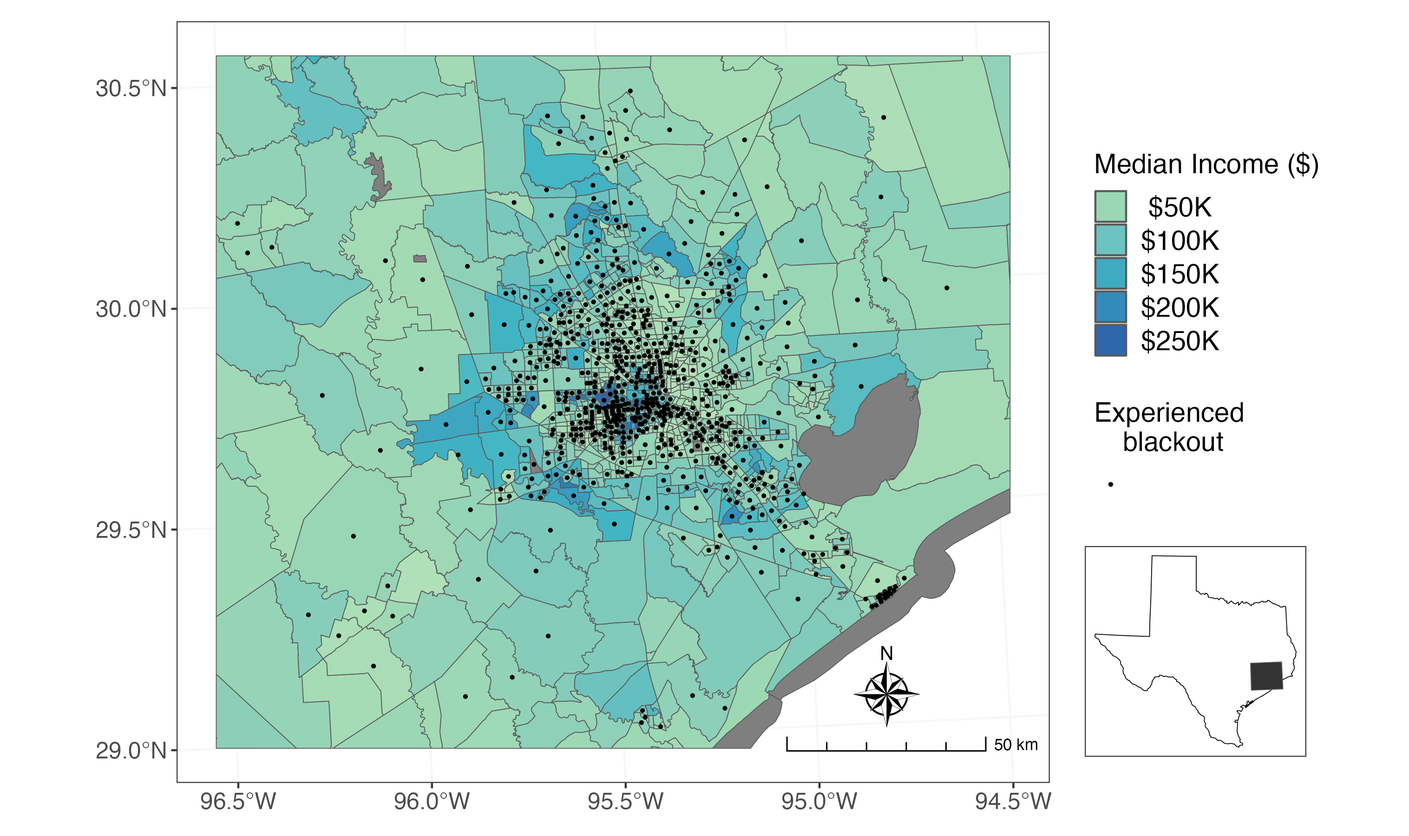
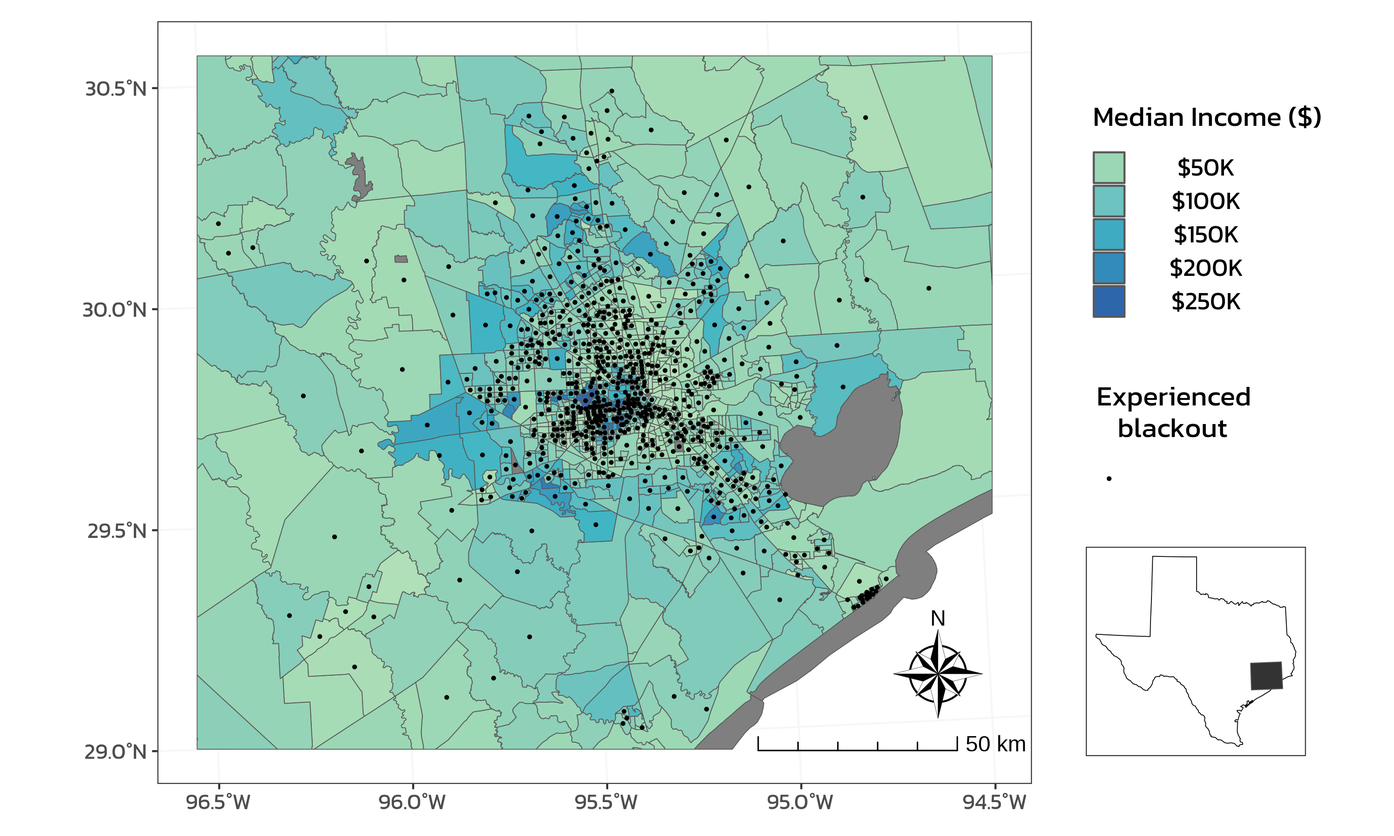
updated figures in blackouts blog post

diff --git a/docs/posts/2023-12-17-houston-blackouts-ej/index.html b/docs/posts/2023-12-17-houston-blackouts-ej/index.html
@@ -526,8 +526,8 @@ pre > code.sourceCode > span > a:first-child::before { text-decoration: underlin
 <span id="cb10-21"><a href="#cb10-21" aria-hidden="true" tabindex="-1"></a><span class="co"># create centroids for tracts with blackouts</span></span>
 <span id="cb10-22"><a href="#cb10-22" aria-hidden="true" tabindex="-1"></a>tracts_blackouts_centroids <span class="ot">&lt;-</span> sf<span class="sc">::</span><span class="fu">st_centroid</span>(tracts_blackouts)</span>
 <span id="cb10-23"><a href="#cb10-23" aria-hidden="true" tabindex="-1"></a></span>
-<span id="cb10-24"><a href="#cb10-24" aria-hidden="true" tabindex="-1"></a><span class="co">#palette from colorbrewer2.org - colorblind safe</span></span>
-<span id="cb10-25"><a href="#cb10-25" aria-hidden="true" tabindex="-1"></a>color_pal <span class="ot">&lt;-</span> <span class="fu">c</span>(<span class="st">'#ffffcc'</span>,<span class="st">'#a1dab4'</span>,<span class="st">'#41b6c4'</span>,<span class="st">'#2c7fb8'</span>,<span class="st">'#253494'</span>)</span>
+<span id="cb10-24"><a href="#cb10-24" aria-hidden="true" tabindex="-1"></a><span class="co"># palette from colorbrewer2.org - colorblind safe</span></span>
+<span id="cb10-25"><a href="#cb10-25" aria-hidden="true" tabindex="-1"></a>color_pal <span class="ot">&lt;-</span> <span class="fu">c</span>(<span class="st">"#ffffcc"</span>, <span class="st">"#a1dab4"</span>, <span class="st">"#41b6c4"</span>, <span class="st">"#2c7fb8"</span>, <span class="st">"#253494"</span>)</span>
 <span id="cb10-26"><a href="#cb10-26" aria-hidden="true" tabindex="-1"></a></span>
 <span id="cb10-27"><a href="#cb10-27" aria-hidden="true" tabindex="-1"></a><span class="co"># plot median income by census tracts</span></span>
 <span id="cb10-28"><a href="#cb10-28" aria-hidden="true" tabindex="-1"></a>plot_4 <span class="ot">&lt;-</span> <span class="fu">ggplot</span>() <span class="sc">+</span></span>
@@ -536,25 +536,39 @@ pre > code.sourceCode > span > a:first-child::before { text-decoration: underlin
 <span id="cb10-31"><a href="#cb10-31" aria-hidden="true" tabindex="-1"></a>  <span class="fu">labs</span>(<span class="at">fill =</span> <span class="st">"Median Income ($)"</span>) <span class="sc">+</span></span>
 <span id="cb10-32"><a href="#cb10-32" aria-hidden="true" tabindex="-1"></a>  <span class="fu">geom_sf</span>(<span class="at">data =</span> tracts_blackouts_centroids, <span class="at">size =</span> <span class="fl">0.5</span>, <span class="fu">aes</span>(<span class="at">color =</span> <span class="st">""</span>)) <span class="sc">+</span></span>
 <span id="cb10-33"><a href="#cb10-33" aria-hidden="true" tabindex="-1"></a>  <span class="fu">scale_colour_manual</span>(<span class="at">name =</span> <span class="st">"Experienced </span><span class="sc">\n</span><span class="st">blackout"</span>, <span class="at">values =</span> <span class="st">"black"</span>) <span class="sc">+</span></span>
-<span id="cb10-34"><a href="#cb10-34" aria-hidden="true" tabindex="-1"></a>  <span class="fu">annotation_scale</span>(<span class="at">location =</span> <span class="st">"bl"</span>, <span class="at">pad_x =</span> <span class="fu">unit</span>(<span class="fl">4.38</span>, <span class="st">"in"</span>), <span class="at">pad_y =</span> <span class="fu">unit</span>(<span class="fl">0.23</span>, <span class="st">"in"</span>), <span class="at">style =</span> <span class="st">"ticks"</span>) <span class="sc">+</span></span>
+<span id="cb10-34"><a href="#cb10-34" aria-hidden="true" tabindex="-1"></a>  <span class="fu">annotation_scale</span>(<span class="at">location =</span> <span class="st">"bl"</span>, <span class="at">pad_x =</span> <span class="fu">unit</span>(<span class="fl">4.31</span>, <span class="st">"in"</span>), <span class="at">pad_y =</span> <span class="fu">unit</span>(<span class="fl">0.24</span>, <span class="st">"in"</span>), <span class="at">style =</span> <span class="st">"ticks"</span>, <span class="at">text_cex =</span> <span class="dv">3</span>) <span class="sc">+</span></span>
 <span id="cb10-35"><a href="#cb10-35" aria-hidden="true" tabindex="-1"></a>  <span class="fu">annotation_north_arrow</span>(</span>
 <span id="cb10-36"><a href="#cb10-36" aria-hidden="true" tabindex="-1"></a>    <span class="at">location =</span> <span class="st">"bl"</span>,</span>
-<span id="cb10-37"><a href="#cb10-37" aria-hidden="true" tabindex="-1"></a>    <span class="at">pad_x =</span> <span class="fu">unit</span>(<span class="fl">4.9</span>, <span class="st">"in"</span>),</span>
-<span id="cb10-38"><a href="#cb10-38" aria-hidden="true" tabindex="-1"></a>    <span class="at">pad_y =</span> <span class="fu">unit</span>(<span class="fl">0.4</span>, <span class="st">"in"</span>),</span>
-<span id="cb10-39"><a href="#cb10-39" aria-hidden="true" tabindex="-1"></a>    <span class="at">style =</span> ggspatial<span class="sc">::</span><span class="fu">north_arrow_nautical</span>()</span>
-<span id="cb10-40"><a href="#cb10-40" aria-hidden="true" tabindex="-1"></a>  ) <span class="sc">+</span></span>
-<span id="cb10-41"><a href="#cb10-41" aria-hidden="true" tabindex="-1"></a>  <span class="fu">theme_bw</span>() <span class="sc">+</span> </span>
-<span id="cb10-42"><a href="#cb10-42" aria-hidden="true" tabindex="-1"></a>  <span class="fu">theme</span>(<span class="at">panel.grid =</span> <span class="fu">element_line</span>(<span class="at">color =</span> <span class="st">"grey95"</span>),</span>
-<span id="cb10-43"><a href="#cb10-43" aria-hidden="true" tabindex="-1"></a>        <span class="at">legend.position=</span> <span class="fu">c</span>(<span class="fl">1.18</span>, .<span class="dv">6</span>))<span class="sc">+</span></span>
-<span id="cb10-44"><a href="#cb10-44" aria-hidden="true" tabindex="-1"></a>  <span class="fu">guides</span>(<span class="at">color =</span> <span class="fu">guide_legend</span>(<span class="at">order =</span> <span class="dv">2</span>), <span class="at">fill=</span> <span class="fu">guide_legend</span>(<span class="at">order =</span> <span class="dv">1</span>))</span>
-<span id="cb10-45"><a href="#cb10-45" aria-hidden="true" tabindex="-1"></a></span>
-<span id="cb10-46"><a href="#cb10-46" aria-hidden="true" tabindex="-1"></a></span>
-<span id="cb10-47"><a href="#cb10-47" aria-hidden="true" tabindex="-1"></a>plot_4</span>
-<span id="cb10-48"><a href="#cb10-48" aria-hidden="true" tabindex="-1"></a></span>
-<span id="cb10-49"><a href="#cb10-49" aria-hidden="true" tabindex="-1"></a><span class="co"># combine plot and texas inset</span></span>
-<span id="cb10-50"><a href="#cb10-50" aria-hidden="true" tabindex="-1"></a>plot_5 <span class="ot">&lt;-</span> plot_4 <span class="sc">+</span> <span class="fu">inset_element</span>(plot_2, <span class="at">left =</span>  <span class="fl">1.02</span>, <span class="at">bottom =</span> <span class="fl">0.005</span>, <span class="at">right =</span> <span class="fl">1.28</span>, <span class="at">top =</span> <span class="fl">0.4</span>, <span class="at">align_to =</span> <span class="st">"plot"</span>) </span>
-<span id="cb10-51"><a href="#cb10-51" aria-hidden="true" tabindex="-1"></a></span>
-<span id="cb10-52"><a href="#cb10-52" aria-hidden="true" tabindex="-1"></a>plot_5</span></code><button title="Copy to Clipboard" class="code-copy-button"><i class="bi"></i></button></pre></div>
+<span id="cb10-37"><a href="#cb10-37" aria-hidden="true" tabindex="-1"></a>    <span class="at">pad_x =</span> <span class="fu">unit</span>(<span class="fl">5.2</span>, <span class="st">"in"</span>),</span>
+<span id="cb10-38"><a href="#cb10-38" aria-hidden="true" tabindex="-1"></a>    <span class="at">pad_y =</span> <span class="fu">unit</span>(<span class="fl">0.47</span>, <span class="st">"in"</span>),</span>
+<span id="cb10-39"><a href="#cb10-39" aria-hidden="true" tabindex="-1"></a>    <span class="at">height =</span> <span class="fu">unit</span>(<span class="fl">0.8</span>, <span class="st">"in"</span>),</span>
+<span id="cb10-40"><a href="#cb10-40" aria-hidden="true" tabindex="-1"></a>    <span class="at">width =</span> <span class="fu">unit</span>(<span class="fl">0.8</span>, <span class="st">"in"</span>),</span>
+<span id="cb10-41"><a href="#cb10-41" aria-hidden="true" tabindex="-1"></a>    <span class="co"># pad_x = unit(4.74, "in"),</span></span>
+<span id="cb10-42"><a href="#cb10-42" aria-hidden="true" tabindex="-1"></a>    <span class="co"># pad_y = unit(0.4, "in"),</span></span>
+<span id="cb10-43"><a href="#cb10-43" aria-hidden="true" tabindex="-1"></a>    <span class="at">style =</span> ggspatial<span class="sc">::</span><span class="fu">north_arrow_nautical</span>(<span class="at">text_size =</span> <span class="dv">35</span>)</span>
+<span id="cb10-44"><a href="#cb10-44" aria-hidden="true" tabindex="-1"></a>  ) <span class="sc">+</span></span>
+<span id="cb10-45"><a href="#cb10-45" aria-hidden="true" tabindex="-1"></a>  <span class="fu">theme_bw</span>() <span class="sc">+</span></span>
+<span id="cb10-46"><a href="#cb10-46" aria-hidden="true" tabindex="-1"></a>  <span class="fu">theme</span>(</span>
+<span id="cb10-47"><a href="#cb10-47" aria-hidden="true" tabindex="-1"></a>    <span class="at">text =</span> <span class="fu">element_text</span>(<span class="at">family =</span> <span class="st">"kanit"</span>),</span>
+<span id="cb10-48"><a href="#cb10-48" aria-hidden="true" tabindex="-1"></a>    <span class="at">panel.grid =</span> <span class="fu">element_line</span>(<span class="at">color =</span> <span class="st">"grey97"</span>),</span>
+<span id="cb10-49"><a href="#cb10-49" aria-hidden="true" tabindex="-1"></a>    <span class="co"># legend.margin = margin(c(b = 10)),</span></span>
+<span id="cb10-50"><a href="#cb10-50" aria-hidden="true" tabindex="-1"></a>    <span class="at">axis.text.x =</span> <span class="fu">element_text</span>(<span class="at">size =</span> <span class="dv">35</span>),</span>
+<span id="cb10-51"><a href="#cb10-51" aria-hidden="true" tabindex="-1"></a>    <span class="at">axis.text.y =</span> <span class="fu">element_text</span>(<span class="at">size =</span> <span class="dv">35</span>),</span>
+<span id="cb10-52"><a href="#cb10-52" aria-hidden="true" tabindex="-1"></a>    <span class="at">axis.title.x =</span> <span class="fu">element_text</span>(<span class="at">size =</span> <span class="dv">40</span>),</span>
+<span id="cb10-53"><a href="#cb10-53" aria-hidden="true" tabindex="-1"></a>    <span class="at">axis.title.y =</span> <span class="fu">element_text</span>(<span class="at">size =</span> <span class="dv">40</span>),</span>
+<span id="cb10-54"><a href="#cb10-54" aria-hidden="true" tabindex="-1"></a>    <span class="at">legend.text =</span> <span class="fu">element_text</span>(<span class="at">size =</span> <span class="dv">40</span>, <span class="at">hjust =</span> <span class="fl">0.5</span>),</span>
+<span id="cb10-55"><a href="#cb10-55" aria-hidden="true" tabindex="-1"></a>    <span class="at">legend.title =</span> <span class="fu">element_text</span>(<span class="at">lineheight =</span> <span class="fl">0.3</span>, <span class="at">size =</span> <span class="dv">45</span>, <span class="at">hjust =</span> <span class="fl">0.5</span>, <span class="at">vjust =</span> <span class="dv">2</span>, <span class="at">margin =</span> <span class="fu">margin</span>(<span class="at">b =</span> <span class="dv">1</span>)),</span>
+<span id="cb10-56"><a href="#cb10-56" aria-hidden="true" tabindex="-1"></a>    <span class="at">legend.position =</span> <span class="fu">c</span>(<span class="fl">1.2</span>, <span class="fl">0.65</span>)</span>
+<span id="cb10-57"><a href="#cb10-57" aria-hidden="true" tabindex="-1"></a>  ) <span class="sc">+</span></span>
+<span id="cb10-58"><a href="#cb10-58" aria-hidden="true" tabindex="-1"></a>  <span class="fu">guides</span>(<span class="at">color =</span> <span class="fu">guide_legend</span>(<span class="at">order =</span> <span class="dv">2</span>, <span class="at">title.vjust =</span> <span class="sc">-</span><span class="dv">3</span>), <span class="at">fill =</span> <span class="fu">guide_legend</span>(<span class="at">order =</span> <span class="dv">1</span>, <span class="at">title.vjust =</span> <span class="sc">-</span><span class="dv">3</span>))</span>
+<span id="cb10-59"><a href="#cb10-59" aria-hidden="true" tabindex="-1"></a><span class="co"># guides(color = guide_colorbar(order = 2), fill = guide_legend(order = 1))</span></span>
+<span id="cb10-60"><a href="#cb10-60" aria-hidden="true" tabindex="-1"></a></span>
+<span id="cb10-61"><a href="#cb10-61" aria-hidden="true" tabindex="-1"></a>plot_4</span>
+<span id="cb10-62"><a href="#cb10-62" aria-hidden="true" tabindex="-1"></a></span>
+<span id="cb10-63"><a href="#cb10-63" aria-hidden="true" tabindex="-1"></a><span class="co"># combine plot and texas inset</span></span>
+<span id="cb10-64"><a href="#cb10-64" aria-hidden="true" tabindex="-1"></a>plot_5 <span class="ot">&lt;-</span> plot_4 <span class="sc">+</span> <span class="fu">inset_element</span>(plot_2, <span class="at">left =</span> <span class="fl">1.04</span>, <span class="at">bottom =</span> <span class="fl">0.005</span>, <span class="at">right =</span> <span class="fl">1.3</span>, <span class="at">top =</span> <span class="fl">0.4</span>, <span class="at">align_to =</span> <span class="st">"plot"</span>)</span>
+<span id="cb10-65"><a href="#cb10-65" aria-hidden="true" tabindex="-1"></a></span>
+<span id="cb10-66"><a href="#cb10-66" aria-hidden="true" tabindex="-1"></a>plot_5</span></code><button title="Copy to Clipboard" class="code-copy-button"><i class="bi"></i></button></pre></div>
 </details>
 </div>
 <div class="quarto-figure quarto-figure-center">
@@ -587,33 +601,60 @@ pre > code.sourceCode > span > a:first-child::before { text-decoration: underlin
 <span id="cb11-18"><a href="#cb11-18" aria-hidden="true" tabindex="-1"></a><span class="co"># plot income distribution</span></span>
 <span id="cb11-19"><a href="#cb11-19" aria-hidden="true" tabindex="-1"></a>plot_6 <span class="ot">&lt;-</span> <span class="fu">ggplot</span>(income_distr) <span class="sc">+</span></span>
 <span id="cb11-20"><a href="#cb11-20" aria-hidden="true" tabindex="-1"></a>  <span class="fu">geom_boxplot</span>(<span class="fu">aes</span>(<span class="at">x =</span> group, <span class="at">y =</span> income, <span class="at">fill =</span> group), <span class="at">notch =</span> <span class="cn">TRUE</span>) <span class="sc">+</span></span>
-<span id="cb11-21"><a href="#cb11-21" aria-hidden="true" tabindex="-1"></a>  <span class="fu">scale_y_continuous</span>(<span class="at">labels =</span> scales<span class="sc">::</span><span class="fu">label_currency</span>(), <span class="at">expand =</span> <span class="fu">c</span>(<span class="dv">0</span>, <span class="dv">0</span>)) <span class="sc">+</span></span>
+<span id="cb11-21"><a href="#cb11-21" aria-hidden="true" tabindex="-1"></a>  <span class="fu">scale_y_continuous</span>(<span class="at">labels =</span> scales<span class="sc">::</span><span class="fu">label_currency</span>(), <span class="at">expand =</span> <span class="fu">c</span>(<span class="dv">0</span>, <span class="dv">0</span>), <span class="at">limits =</span> <span class="fu">c</span>(<span class="dv">0</span>, <span class="dv">260000</span>)) <span class="sc">+</span></span>
 <span id="cb11-22"><a href="#cb11-22" aria-hidden="true" tabindex="-1"></a>  <span class="fu">scale_fill_manual</span>(<span class="at">values =</span> <span class="fu">c</span>(<span class="st">"#6BB9C7"</span>, <span class="st">"#EDB458"</span>)) <span class="sc">+</span></span>
-<span id="cb11-23"><a href="#cb11-23" aria-hidden="true" tabindex="-1"></a>  <span class="fu">labs</span>(<span class="at">x =</span> <span class="st">"Tract type"</span>, <span class="at">y =</span> <span class="st">"Income ($)"</span>, <span class="at">fill =</span> <span class="st">"Tract type"</span>) <span class="sc">+</span></span>
+<span id="cb11-23"><a href="#cb11-23" aria-hidden="true" tabindex="-1"></a>  <span class="fu">labs</span>(<span class="at">x =</span> <span class="st">"Tract type"</span>, <span class="at">y =</span> <span class="st">"Median Income ($)"</span>, <span class="at">fill =</span> <span class="st">"Tract type"</span>) <span class="sc">+</span></span>
 <span id="cb11-24"><a href="#cb11-24" aria-hidden="true" tabindex="-1"></a>  <span class="fu">theme_bw</span>() <span class="sc">+</span></span>
-<span id="cb11-25"><a href="#cb11-25" aria-hidden="true" tabindex="-1"></a>  <span class="fu">theme</span>(<span class="at">legend.position =</span> <span class="st">"none"</span>,</span>
-<span id="cb11-26"><a href="#cb11-26" aria-hidden="true" tabindex="-1"></a>        <span class="at">panel.grid =</span> <span class="fu">element_line</span>(<span class="at">color =</span> <span class="st">"grey95"</span>))</span>
-<span id="cb11-27"><a href="#cb11-27" aria-hidden="true" tabindex="-1"></a></span>
-<span id="cb11-28"><a href="#cb11-28" aria-hidden="true" tabindex="-1"></a>plot_6 </span>
-<span id="cb11-29"><a href="#cb11-29" aria-hidden="true" tabindex="-1"></a></span>
-<span id="cb11-30"><a href="#cb11-30" aria-hidden="true" tabindex="-1"></a>plot_7 <span class="ot">&lt;-</span> <span class="fu">ggplot</span>(income_distr) <span class="sc">+</span></span>
-<span id="cb11-31"><a href="#cb11-31" aria-hidden="true" tabindex="-1"></a>  <span class="fu">geom_density</span>(<span class="fu">aes</span>(<span class="at">x =</span> income,  ..scaled.., <span class="at">col =</span> group, <span class="at">fill =</span> group), <span class="at">size =</span> <span class="fl">1.5</span>, <span class="at">alpha =</span> <span class="fl">0.5</span>) <span class="sc">+</span></span>
-<span id="cb11-32"><a href="#cb11-32" aria-hidden="true" tabindex="-1"></a>  <span class="fu">scale_x_continuous</span>(<span class="at">labels =</span> scales<span class="sc">::</span><span class="fu">label_currency</span>(),<span class="at">expand =</span> <span class="fu">c</span>(<span class="dv">0</span>, <span class="dv">0</span>)) <span class="sc">+</span></span>
-<span id="cb11-33"><a href="#cb11-33" aria-hidden="true" tabindex="-1"></a>  <span class="fu">scale_y_continuous</span>(<span class="at">expand =</span> <span class="fu">c</span>(<span class="dv">0</span>, <span class="dv">0</span>), <span class="at">limits =</span> <span class="fu">c</span>(<span class="dv">0</span>, <span class="fl">1.02</span>)) <span class="sc">+</span></span>
-<span id="cb11-34"><a href="#cb11-34" aria-hidden="true" tabindex="-1"></a>  <span class="fu">labs</span>(<span class="at">col =</span> <span class="st">"Tract type"</span>, <span class="at">x =</span> <span class="st">"Income ($)"</span>, <span class="at">y =</span> <span class="st">"Density"</span>) <span class="sc">+</span></span>
-<span id="cb11-35"><a href="#cb11-35" aria-hidden="true" tabindex="-1"></a>  <span class="fu">scale_color_manual</span>(<span class="at">values =</span> <span class="fu">c</span>(<span class="st">"#6BB9C7"</span>, <span class="st">"#EDB458"</span>)) <span class="sc">+</span></span>
-<span id="cb11-36"><a href="#cb11-36" aria-hidden="true" tabindex="-1"></a>  <span class="fu">scale_fill_manual</span>(<span class="at">values =</span> <span class="fu">c</span>(<span class="st">"#6BB9C7"</span>, <span class="st">"#EDB458"</span>)) <span class="sc">+</span></span>
-<span id="cb11-37"><a href="#cb11-37" aria-hidden="true" tabindex="-1"></a>  <span class="fu">geom_vline</span>(<span class="at">xintercept =</span> <span class="dv">60414</span>, <span class="at">linetype =</span> <span class="st">"dashed"</span>, <span class="at">color =</span> <span class="st">"#4F9BB2"</span>)<span class="sc">+</span></span>
-<span id="cb11-38"><a href="#cb11-38" aria-hidden="true" tabindex="-1"></a>  <span class="fu">geom_vline</span>(<span class="at">xintercept =</span> <span class="dv">55128</span>, <span class="at">linetype =</span> <span class="st">"dashed"</span>, <span class="at">color =</span> <span class="st">"#EC8848"</span>)<span class="sc">+</span></span>
-<span id="cb11-39"><a href="#cb11-39" aria-hidden="true" tabindex="-1"></a>  <span class="fu">theme_bw</span>() <span class="sc">+</span></span>
-<span id="cb11-40"><a href="#cb11-40" aria-hidden="true" tabindex="-1"></a>  <span class="fu">theme</span>(<span class="at">legend.position =</span> <span class="st">"bottom"</span>,</span>
-<span id="cb11-41"><a href="#cb11-41" aria-hidden="true" tabindex="-1"></a>        <span class="at">panel.grid =</span> <span class="fu">element_line</span>(<span class="at">color =</span> <span class="st">"grey95"</span>))</span>
-<span id="cb11-42"><a href="#cb11-42" aria-hidden="true" tabindex="-1"></a></span>
-<span id="cb11-43"><a href="#cb11-43" aria-hidden="true" tabindex="-1"></a>plot_7</span>
-<span id="cb11-44"><a href="#cb11-44" aria-hidden="true" tabindex="-1"></a></span>
-<span id="cb11-45"><a href="#cb11-45" aria-hidden="true" tabindex="-1"></a>plot_8 <span class="ot">&lt;-</span> (plot_6 <span class="sc">+</span> <span class="fu">plot_layout</span>(<span class="at">guides =</span> <span class="st">"collect"</span>) <span class="sc">&amp;</span> <span class="fu">theme</span>(<span class="at">legend.position =</span> <span class="st">"bottom"</span>)) <span class="sc">+</span> (plot_7 <span class="sc">+</span> <span class="fu">theme</span>(<span class="at">legend.position =</span> <span class="st">"none"</span>)) <span class="sc">+</span> <span class="fu">plot_annotation</span>(<span class="at">tag_levels =</span> <span class="st">"A"</span>) </span>
-<span id="cb11-46"><a href="#cb11-46" aria-hidden="true" tabindex="-1"></a></span>
-<span id="cb11-47"><a href="#cb11-47" aria-hidden="true" tabindex="-1"></a>plot_8</span></code><button title="Copy to Clipboard" class="code-copy-button"><i class="bi"></i></button></pre></div>
+<span id="cb11-25"><a href="#cb11-25" aria-hidden="true" tabindex="-1"></a>  <span class="fu">theme</span>(</span>
+<span id="cb11-26"><a href="#cb11-26" aria-hidden="true" tabindex="-1"></a>    <span class="at">text =</span> <span class="fu">element_text</span>(<span class="at">family =</span> <span class="st">"kanit"</span>),</span>
+<span id="cb11-27"><a href="#cb11-27" aria-hidden="true" tabindex="-1"></a>    <span class="at">legend.position =</span> <span class="st">"none"</span>,</span>
+<span id="cb11-28"><a href="#cb11-28" aria-hidden="true" tabindex="-1"></a>    <span class="at">panel.grid =</span> <span class="fu">element_line</span>(<span class="at">color =</span> <span class="st">"grey97"</span>),</span>
+<span id="cb11-29"><a href="#cb11-29" aria-hidden="true" tabindex="-1"></a>    <span class="at">axis.text.x =</span> <span class="fu">element_text</span>(<span class="at">size =</span> <span class="dv">35</span>),</span>
+<span id="cb11-30"><a href="#cb11-30" aria-hidden="true" tabindex="-1"></a>    <span class="at">axis.text.y =</span> <span class="fu">element_text</span>(<span class="at">size =</span> <span class="dv">35</span>),</span>
+<span id="cb11-31"><a href="#cb11-31" aria-hidden="true" tabindex="-1"></a>    <span class="at">axis.title.x =</span> <span class="fu">element_text</span>(<span class="at">size =</span> <span class="dv">40</span>, <span class="at">margin =</span> <span class="fu">margin</span>(<span class="at">t =</span> <span class="dv">10</span>)),</span>
+<span id="cb11-32"><a href="#cb11-32" aria-hidden="true" tabindex="-1"></a>    <span class="at">axis.title.y =</span> <span class="fu">element_text</span>(<span class="at">size =</span> <span class="dv">40</span>, <span class="at">margin =</span> <span class="fu">margin</span>(<span class="at">r =</span> <span class="dv">10</span>)),</span>
+<span id="cb11-33"><a href="#cb11-33" aria-hidden="true" tabindex="-1"></a>    <span class="at">legend.text =</span> <span class="fu">element_text</span>(<span class="at">size =</span> <span class="dv">40</span>, <span class="at">hjust =</span> <span class="fl">0.5</span>),</span>
+<span id="cb11-34"><a href="#cb11-34" aria-hidden="true" tabindex="-1"></a>    <span class="at">legend.title =</span> <span class="fu">element_text</span>(<span class="at">size =</span> <span class="dv">45</span>, <span class="at">hjust =</span> <span class="fl">0.5</span>, <span class="at">margin =</span> <span class="fu">margin</span>(<span class="at">b =</span> <span class="dv">8</span>))</span>
+<span id="cb11-35"><a href="#cb11-35" aria-hidden="true" tabindex="-1"></a>  )</span>
+<span id="cb11-36"><a href="#cb11-36" aria-hidden="true" tabindex="-1"></a></span>
+<span id="cb11-37"><a href="#cb11-37" aria-hidden="true" tabindex="-1"></a>plot_6</span>
+<span id="cb11-38"><a href="#cb11-38" aria-hidden="true" tabindex="-1"></a></span>
+<span id="cb11-39"><a href="#cb11-39" aria-hidden="true" tabindex="-1"></a>plot_7 <span class="ot">&lt;-</span> <span class="fu">ggplot</span>(income_distr) <span class="sc">+</span></span>
+<span id="cb11-40"><a href="#cb11-40" aria-hidden="true" tabindex="-1"></a>  <span class="fu">geom_density</span>(<span class="fu">aes</span>(<span class="at">x =</span> income, ..scaled.., <span class="at">col =</span> group, <span class="at">fill =</span> group), <span class="at">size =</span> <span class="fl">1.5</span>, <span class="at">alpha =</span> <span class="fl">0.5</span>) <span class="sc">+</span></span>
+<span id="cb11-41"><a href="#cb11-41" aria-hidden="true" tabindex="-1"></a>  <span class="fu">scale_x_continuous</span>(<span class="at">labels =</span> scales<span class="sc">::</span><span class="fu">label_currency</span>(<span class="at">scale =</span> <span class="fl">0.001</span>, <span class="at">suffix =</span> <span class="st">"k"</span>, ), <span class="at">expand =</span> <span class="fu">c</span>(<span class="dv">0</span>, <span class="dv">0</span>), <span class="at">limits =</span> <span class="fu">c</span>(<span class="dv">0</span>, <span class="dv">270000</span>)) <span class="sc">+</span></span>
+<span id="cb11-42"><a href="#cb11-42" aria-hidden="true" tabindex="-1"></a>  <span class="fu">scale_y_continuous</span>(<span class="at">expand =</span> <span class="fu">c</span>(<span class="dv">0</span>, <span class="dv">0</span>), <span class="at">limits =</span> <span class="fu">c</span>(<span class="dv">0</span>, <span class="fl">1.02</span>)) <span class="sc">+</span></span>
+<span id="cb11-43"><a href="#cb11-43" aria-hidden="true" tabindex="-1"></a>  <span class="fu">labs</span>(<span class="at">fill =</span> <span class="st">"Tract type"</span>, <span class="at">x =</span> <span class="st">"Median Income ($)"</span>, <span class="at">y =</span> <span class="st">"Density"</span>) <span class="sc">+</span></span>
+<span id="cb11-44"><a href="#cb11-44" aria-hidden="true" tabindex="-1"></a>  <span class="fu">scale_color_manual</span>(<span class="at">values =</span> <span class="fu">c</span>(<span class="st">"#6BB9C7"</span>, <span class="st">"#EDB458"</span>), <span class="at">guide =</span> <span class="cn">NULL</span>) <span class="sc">+</span></span>
+<span id="cb11-45"><a href="#cb11-45" aria-hidden="true" tabindex="-1"></a>  <span class="fu">scale_fill_manual</span>(<span class="at">values =</span> <span class="fu">c</span>(<span class="st">"#6BB9C7"</span>, <span class="st">"#EDB458"</span>), <span class="at">guide =</span> <span class="fu">guide_legend</span>(<span class="at">title =</span> <span class="st">"Tract Type"</span>, <span class="at">keywidth =</span> <span class="fl">1.25</span>, <span class="at">keyheight =</span> <span class="dv">1</span>, <span class="at">vjust =</span> <span class="sc">-</span><span class="dv">3</span>)) <span class="sc">+</span></span>
+<span id="cb11-46"><a href="#cb11-46" aria-hidden="true" tabindex="-1"></a>  <span class="fu">guides</span>(<span class="at">fill =</span> <span class="fu">guide_legend</span>(<span class="at">override.aes =</span> <span class="fu">list</span>(<span class="at">color =</span> <span class="fu">c</span>(<span class="st">"#6BB9C7"</span>,<span class="st">"#EDB458"</span>))))<span class="sc">+</span></span>
+<span id="cb11-47"><a href="#cb11-47" aria-hidden="true" tabindex="-1"></a>  <span class="fu">geom_vline</span>(<span class="at">xintercept =</span> <span class="dv">60414</span>, <span class="at">linetype =</span> <span class="st">"dashed"</span>, <span class="at">color =</span> <span class="st">"#4F9BB2"</span>) <span class="sc">+</span></span>
+<span id="cb11-48"><a href="#cb11-48" aria-hidden="true" tabindex="-1"></a>  <span class="fu">geom_vline</span>(<span class="at">xintercept =</span> <span class="dv">55128</span>, <span class="at">linetype =</span> <span class="st">"dashed"</span>, <span class="at">color =</span> <span class="st">"#EC8848"</span>) <span class="sc">+</span></span>
+<span id="cb11-49"><a href="#cb11-49" aria-hidden="true" tabindex="-1"></a>  <span class="fu">theme_bw</span>() <span class="sc">+</span></span>
+<span id="cb11-50"><a href="#cb11-50" aria-hidden="true" tabindex="-1"></a>  <span class="fu">theme</span>(</span>
+<span id="cb11-51"><a href="#cb11-51" aria-hidden="true" tabindex="-1"></a>    <span class="at">text =</span> <span class="fu">element_text</span>(<span class="at">family =</span> <span class="st">"kanit"</span>),</span>
+<span id="cb11-52"><a href="#cb11-52" aria-hidden="true" tabindex="-1"></a>    <span class="at">legend.position =</span> <span class="fu">c</span>(<span class="fl">0.73</span>, <span class="fl">0.86</span>),</span>
+<span id="cb11-53"><a href="#cb11-53" aria-hidden="true" tabindex="-1"></a>    <span class="at">legend.background =</span> <span class="fu">element_rect</span>(<span class="at">color =</span> <span class="cn">NA</span>, <span class="at">fill =</span> <span class="cn">NA</span>),</span>
+<span id="cb11-54"><a href="#cb11-54" aria-hidden="true" tabindex="-1"></a>    <span class="at">legend.box.background =</span> <span class="fu">element_rect</span>(</span>
+<span id="cb11-55"><a href="#cb11-55" aria-hidden="true" tabindex="-1"></a>      <span class="at">fill =</span> <span class="fu">alpha</span>(<span class="st">'white'</span>, .<span class="dv">5</span>), <span class="at">linetype =</span> <span class="st">"solid"</span>, <span class="at">color =</span> <span class="st">"grey80"</span>),</span>
+<span id="cb11-56"><a href="#cb11-56" aria-hidden="true" tabindex="-1"></a>    <span class="at">panel.grid =</span> <span class="fu">element_line</span>(<span class="at">color =</span> <span class="st">"grey97"</span>),</span>
+<span id="cb11-57"><a href="#cb11-57" aria-hidden="true" tabindex="-1"></a>    <span class="at">axis.text.x =</span> <span class="fu">element_text</span>(<span class="at">size =</span> <span class="dv">35</span>),</span>
+<span id="cb11-58"><a href="#cb11-58" aria-hidden="true" tabindex="-1"></a>    <span class="at">axis.text.y =</span> <span class="fu">element_text</span>(<span class="at">size =</span> <span class="dv">35</span>),</span>
+<span id="cb11-59"><a href="#cb11-59" aria-hidden="true" tabindex="-1"></a>    <span class="at">axis.title.x =</span> <span class="fu">element_text</span>(<span class="at">size =</span> <span class="dv">40</span>, <span class="at">margin =</span> <span class="fu">margin</span>(<span class="at">t =</span> <span class="dv">10</span>)),</span>
+<span id="cb11-60"><a href="#cb11-60" aria-hidden="true" tabindex="-1"></a>    <span class="at">axis.title.y =</span> <span class="fu">element_text</span>(<span class="at">size =</span> <span class="dv">40</span>, <span class="at">margin =</span> <span class="fu">margin</span>(<span class="at">r =</span> <span class="dv">10</span>)),</span>
+<span id="cb11-61"><a href="#cb11-61" aria-hidden="true" tabindex="-1"></a>    <span class="at">legend.text =</span> <span class="fu">element_text</span>(<span class="at">size =</span> <span class="dv">40</span>, <span class="at">hjust =</span> <span class="dv">0</span>),</span>
+<span id="cb11-62"><a href="#cb11-62" aria-hidden="true" tabindex="-1"></a>    <span class="at">legend.title =</span> <span class="fu">element_text</span>(<span class="at">size =</span> <span class="dv">45</span>, <span class="at">hjust =</span> <span class="fl">0.5</span>, <span class="at">lineheight =</span> <span class="fl">0.3</span>)</span>
+<span id="cb11-63"><a href="#cb11-63" aria-hidden="true" tabindex="-1"></a>  )</span>
+<span id="cb11-64"><a href="#cb11-64" aria-hidden="true" tabindex="-1"></a></span>
+<span id="cb11-65"><a href="#cb11-65" aria-hidden="true" tabindex="-1"></a>plot_7</span>
+<span id="cb11-66"><a href="#cb11-66" aria-hidden="true" tabindex="-1"></a></span>
+<span id="cb11-67"><a href="#cb11-67" aria-hidden="true" tabindex="-1"></a>plot_8 <span class="ot">&lt;-</span> plot_6 <span class="sc">+</span> plot_7 <span class="sc">+</span></span>
+<span id="cb11-68"><a href="#cb11-68" aria-hidden="true" tabindex="-1"></a>  <span class="fu">plot_annotation</span>(<span class="at">tag_levels =</span> <span class="st">"A"</span>) <span class="sc">&amp;</span></span>
+<span id="cb11-69"><a href="#cb11-69" aria-hidden="true" tabindex="-1"></a>  <span class="fu">theme</span>(</span>
+<span id="cb11-70"><a href="#cb11-70" aria-hidden="true" tabindex="-1"></a>    <span class="at">text =</span> <span class="fu">element_text</span>(<span class="at">family =</span> <span class="st">"kanit"</span>),</span>
+<span id="cb11-71"><a href="#cb11-71" aria-hidden="true" tabindex="-1"></a>    <span class="at">plot.tag =</span> <span class="fu">element_text</span>(<span class="at">size =</span> <span class="st">"45"</span>)</span>
+<span id="cb11-72"><a href="#cb11-72" aria-hidden="true" tabindex="-1"></a>  )</span>
+<span id="cb11-73"><a href="#cb11-73" aria-hidden="true" tabindex="-1"></a></span>
+<span id="cb11-74"><a href="#cb11-74" aria-hidden="true" tabindex="-1"></a>plot_8</span></code><button title="Copy to Clipboard" class="code-copy-button"><i class="bi"></i></button></pre></div>
 </details>
 </div>
 <div class="quarto-figure quarto-figure-center">

diff --git a/docs/posts.html b/docs/posts.html
@@ -187,7 +187,7 @@ ul.task-list li input[type="checkbox"] {
 
 <div class="quarto-listing quarto-listing-container-default" id="listing-listing">
 <div class="list quarto-listing-default">
-<div class="quarto-post image-right" data-index="0" data-categories="R,Quarto,Git,Spatial,EJ" data-listing-date-sort="1702713600000" data-listing-file-modified-sort="1708400049685" data-listing-date-modified-sort="NaN" data-listing-reading-time-sort="17">
+<div class="quarto-post image-right" data-index="0" data-categories="R,Quarto,Git,Spatial,EJ" data-listing-date-sort="1702713600000" data-listing-file-modified-sort="1709135172246" data-listing-date-modified-sort="NaN" data-listing-reading-time-sort="19">
 <div class="thumbnail">
 <p><a href="./posts/2023-12-17-houston-blackouts-ej/index.html"> <img src="./posts/2023-12-17-houston-blackouts-ej/preview.png" class="thumbnail-image"> </a></p>
 </div>
